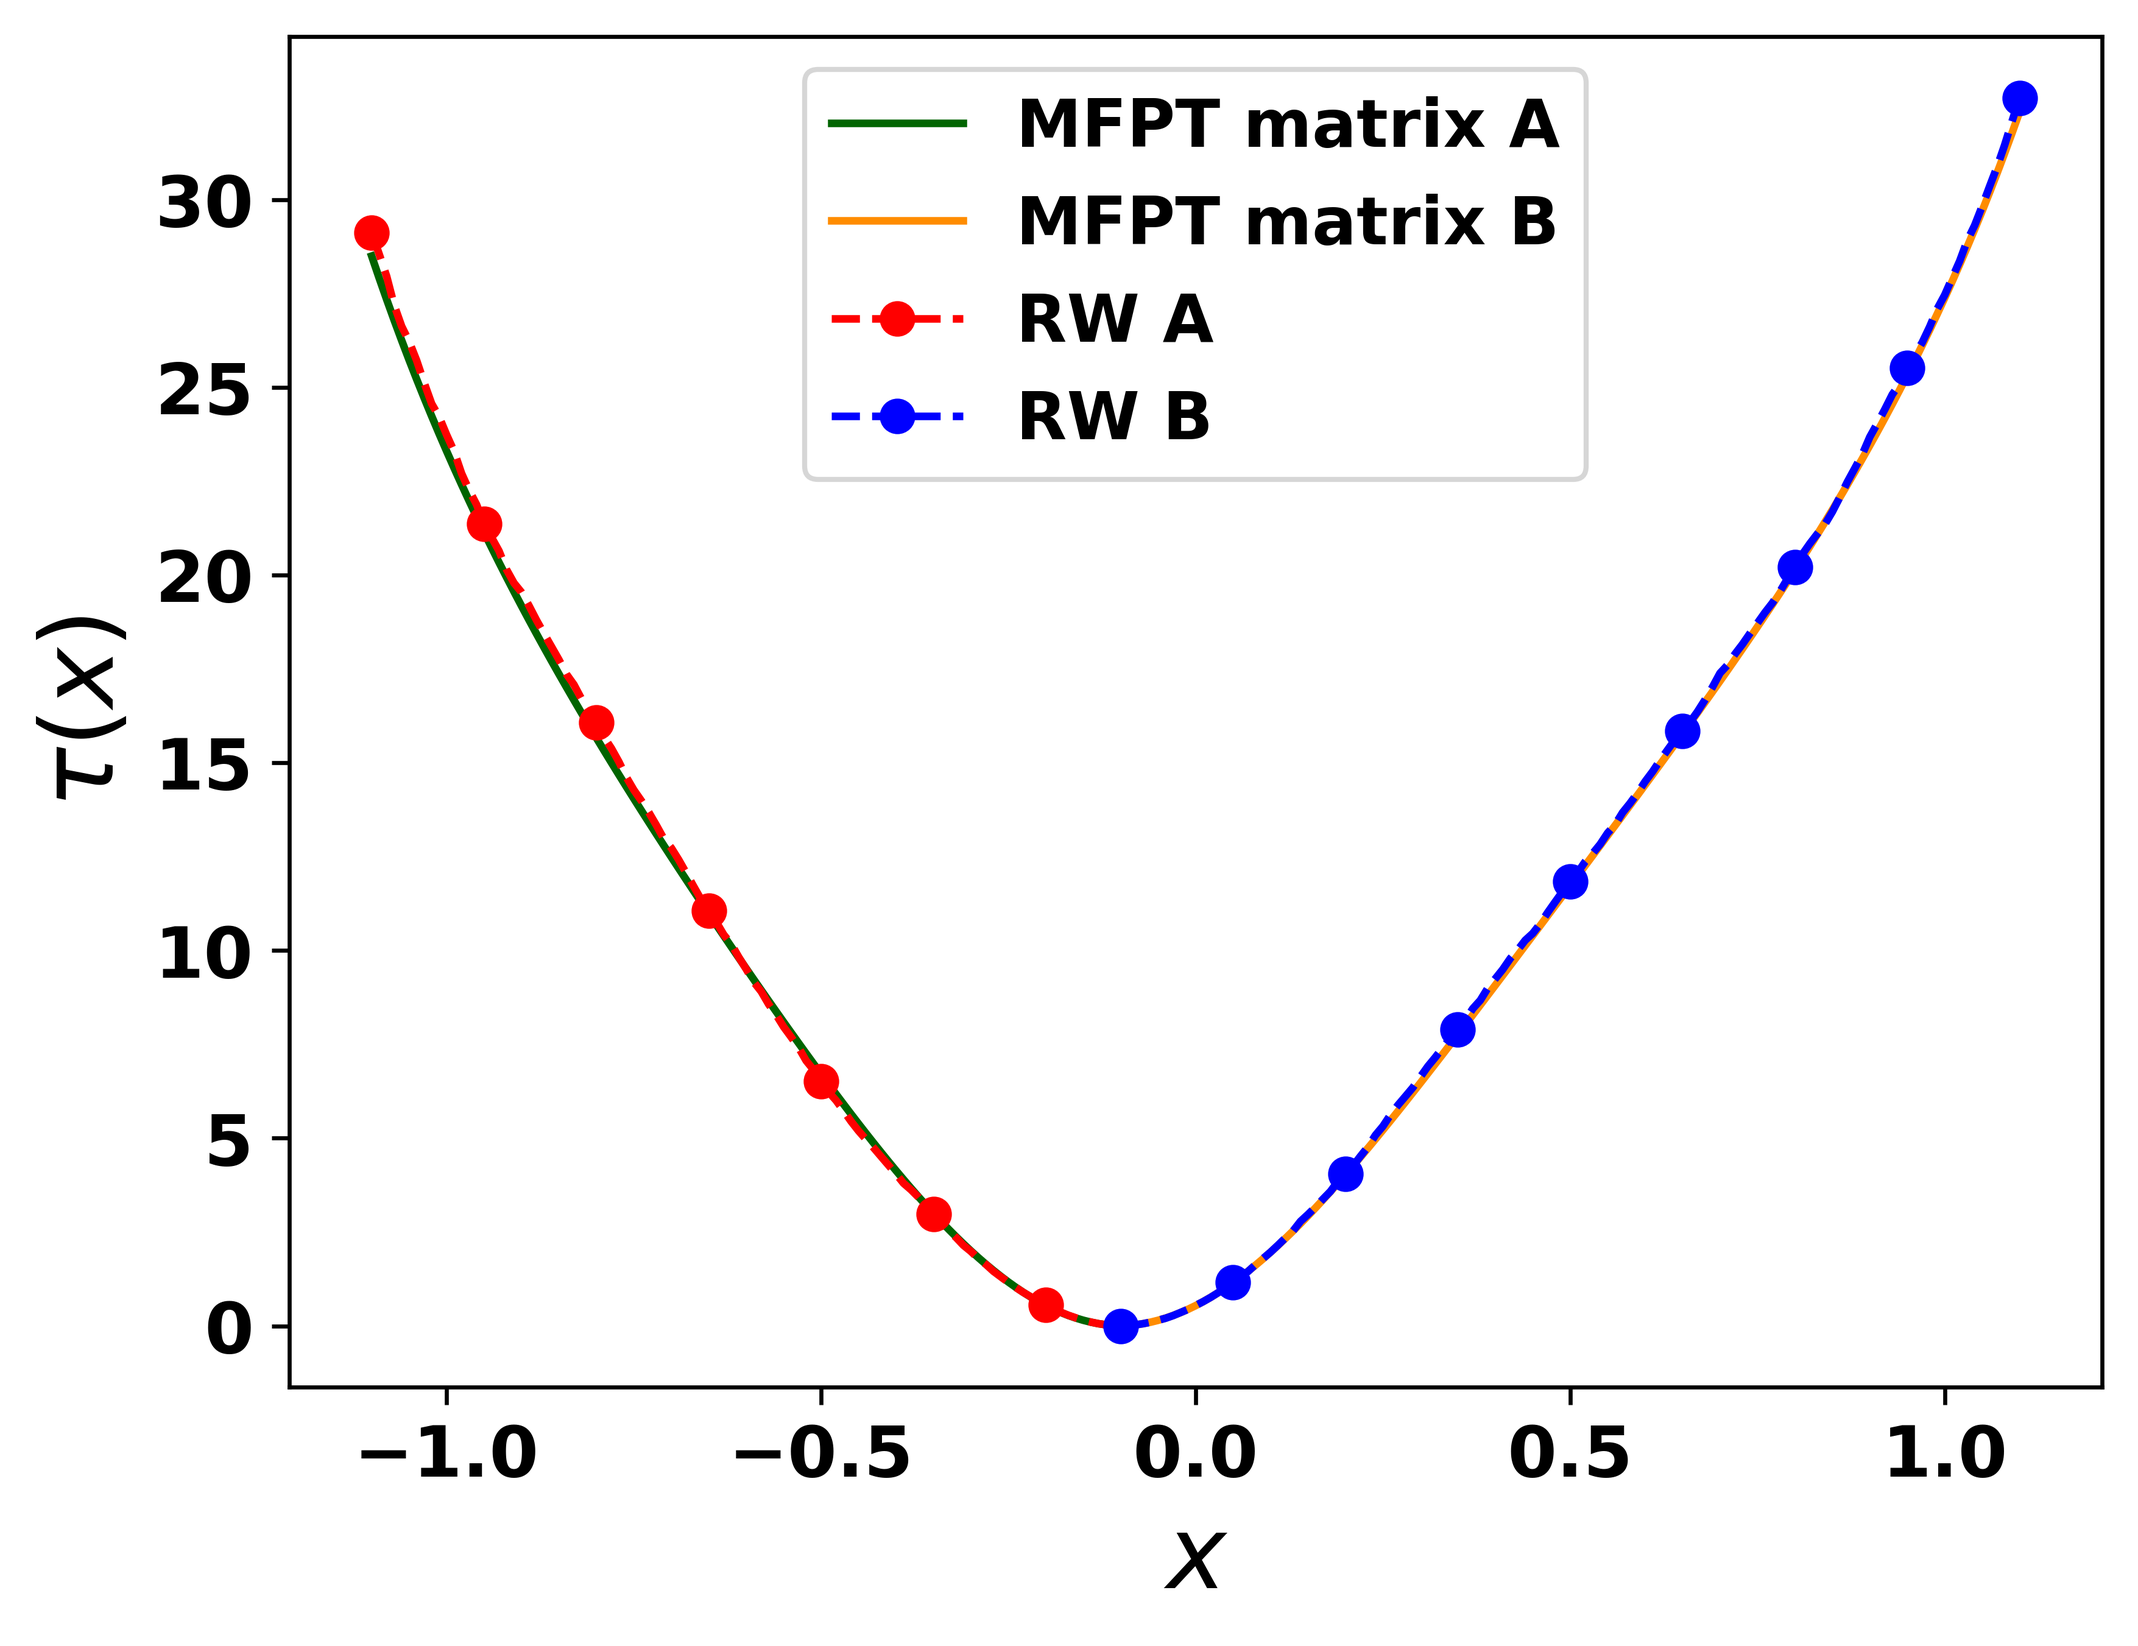
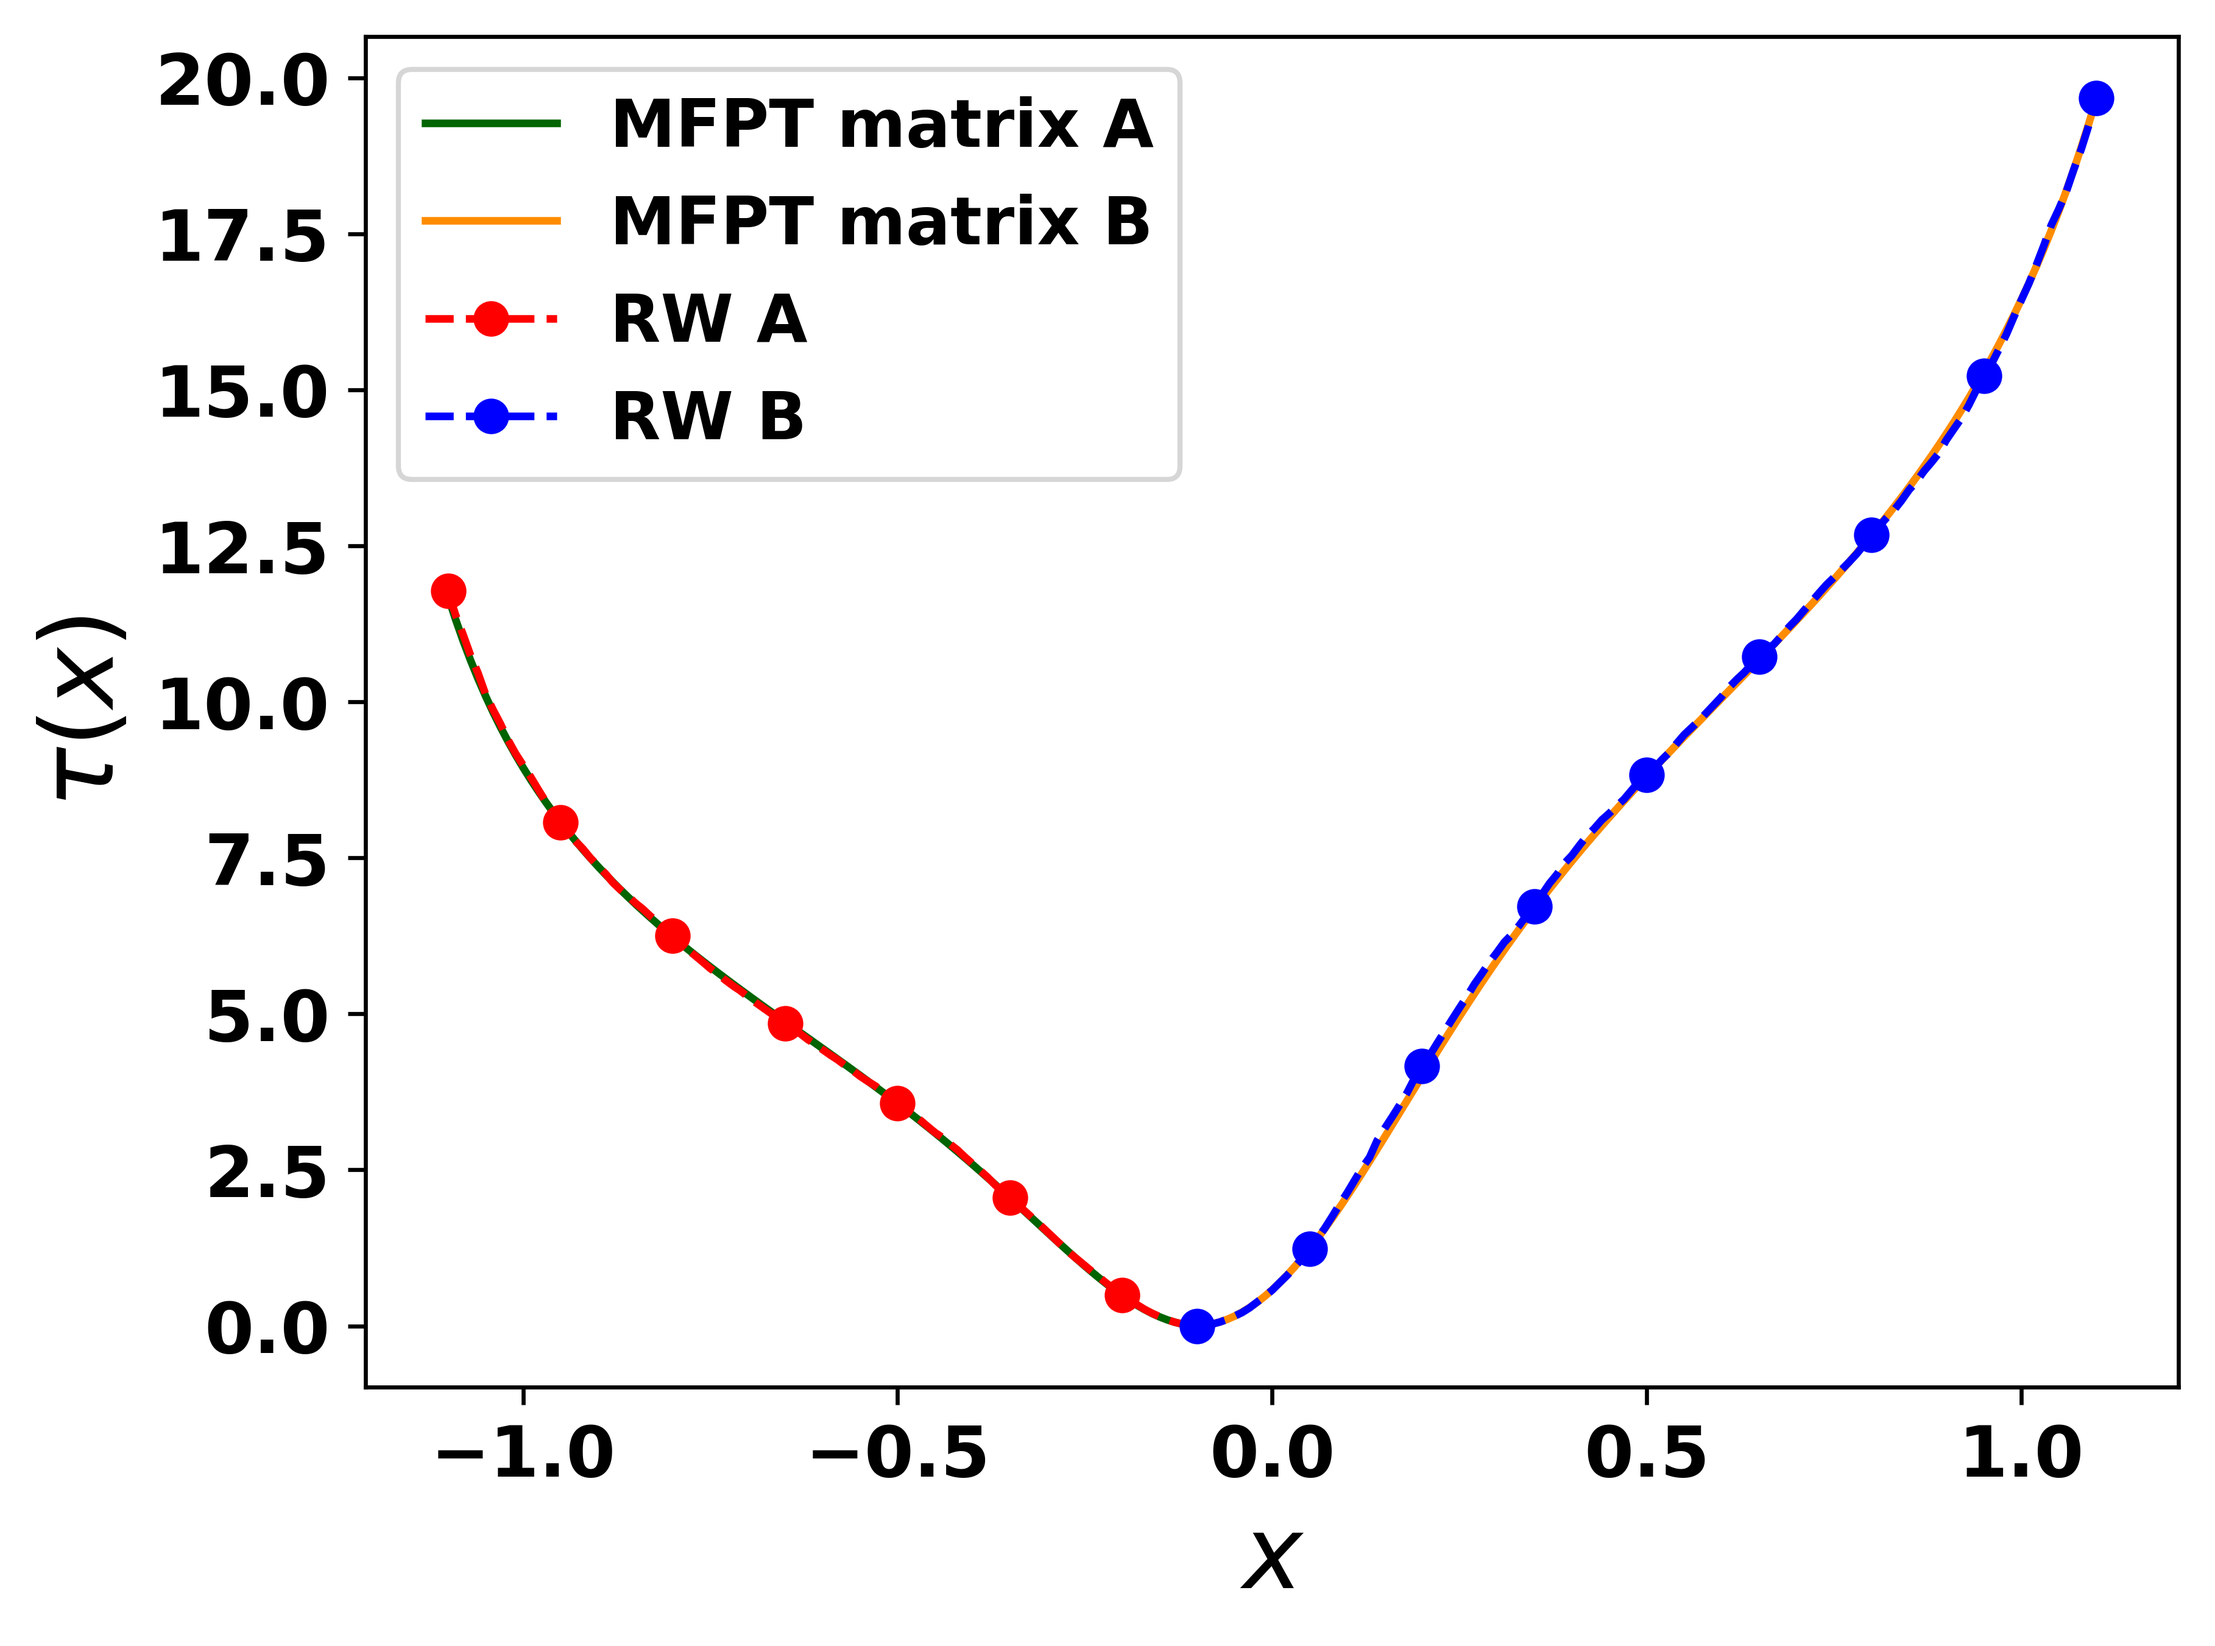
Add plot script and nicer plots for two-region method (medium barrier RW)

diff --git a/Two_region_method/Random_walk_Model/two_region_reconst_plot.py b/Two_region_method/Random_walk_Model/two_region_reconst_plot.py
@@ -7,8 +7,8 @@ from scipy.interpolate import interp1d, PchipInterpolator, CubicSpline
 import matplotlib.pyplot as plt
 
 # Define the double-well potential using two Gaussian functions
-def double_gaussian_potential(x, A1=3, mu1=-1, sigma1=0.5, A2=4, mu2=1, sigma2=0.6):
-# def double_gaussian_potential(x, A1=12, mu1=-1, sigma1=0.5, A2=10, mu2=1, sigma2=0.6):
+# def double_gaussian_potential(x, A1=3, mu1=-1, sigma1=0.5, A2=4, mu2=1, sigma2=0.6):
+def double_gaussian_potential(x, A1=12, mu1=-1, sigma1=0.5, A2=10, mu2=1, sigma2=0.6):
 # def double_gaussian_potential(x, A1=30, mu1=-1, sigma1=0.5, A2=25, mu2=1, sigma2=0.6):
     V1 = A1 * np.exp(-((x - mu1)**2) / (2 * sigma1**2))
     V2 = A2 * np.exp(-((x - mu2)**2) / (2 * sigma2**2))
